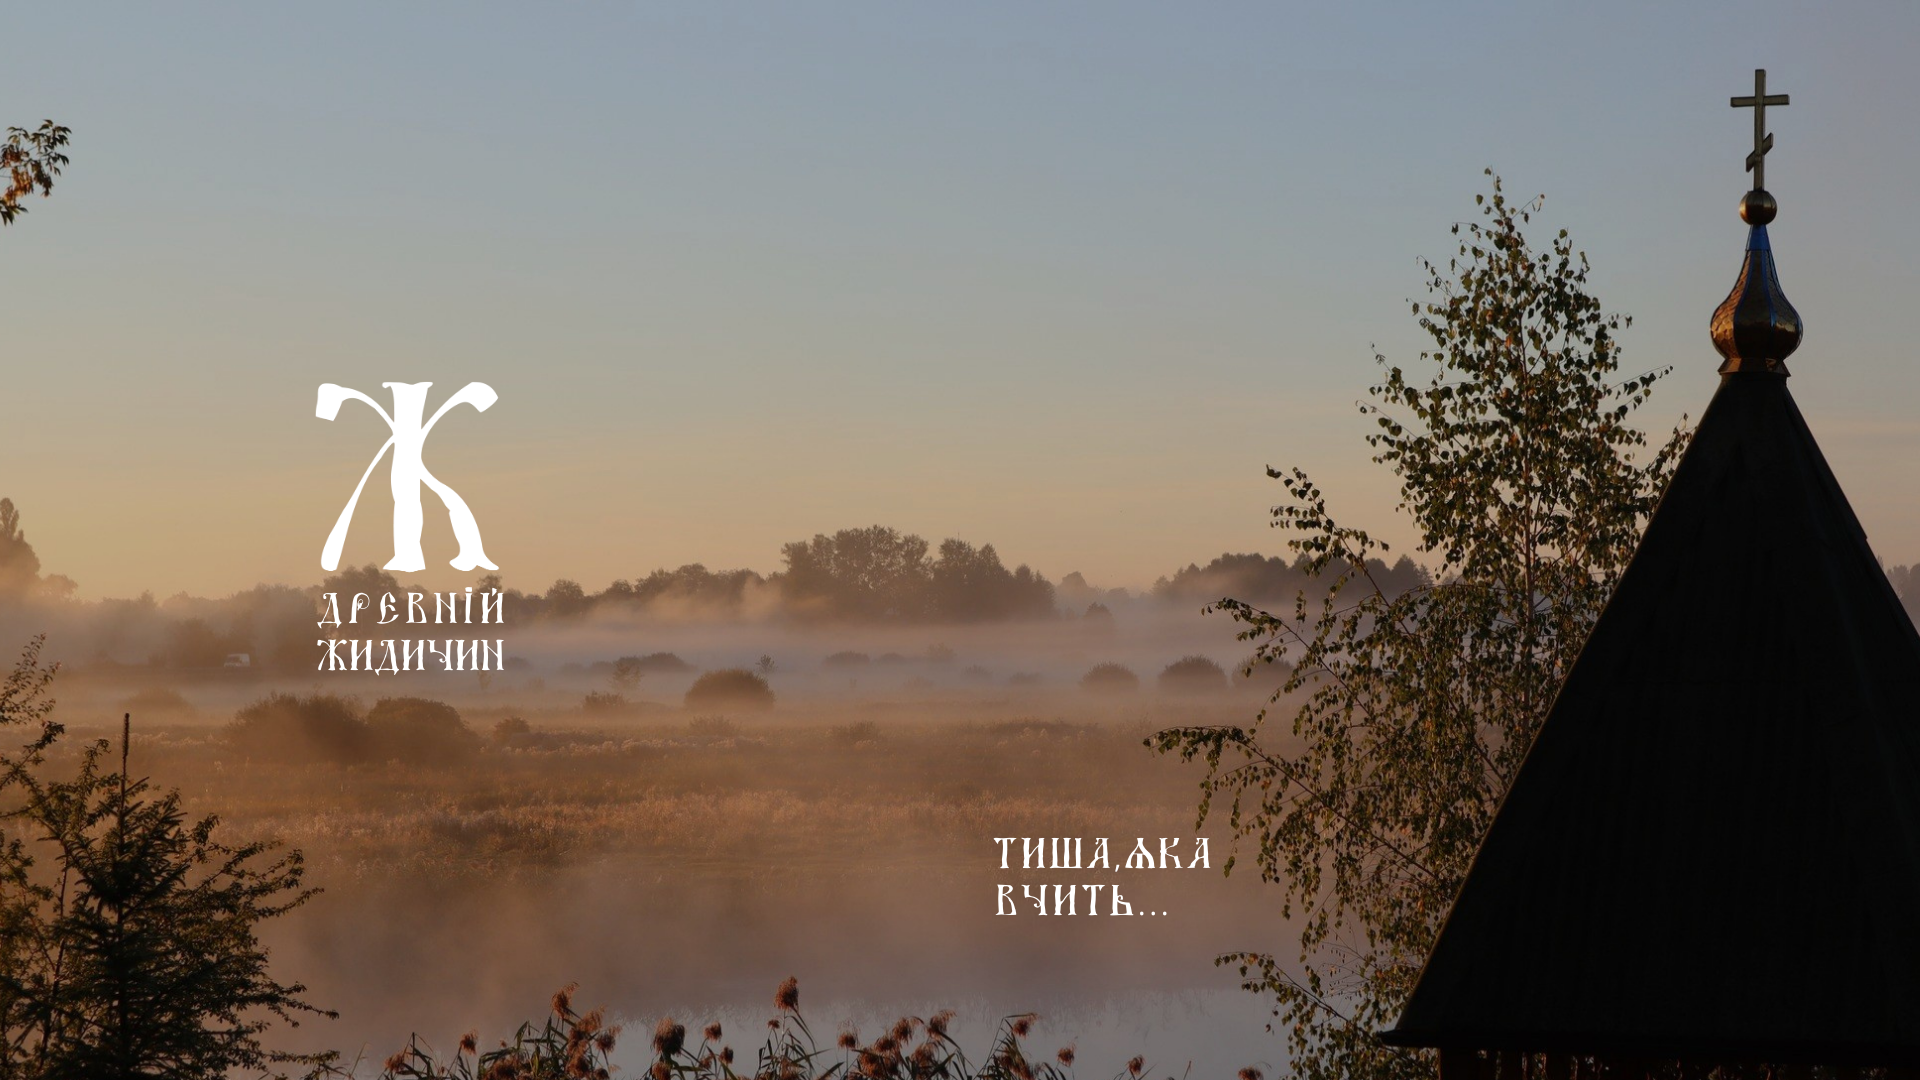
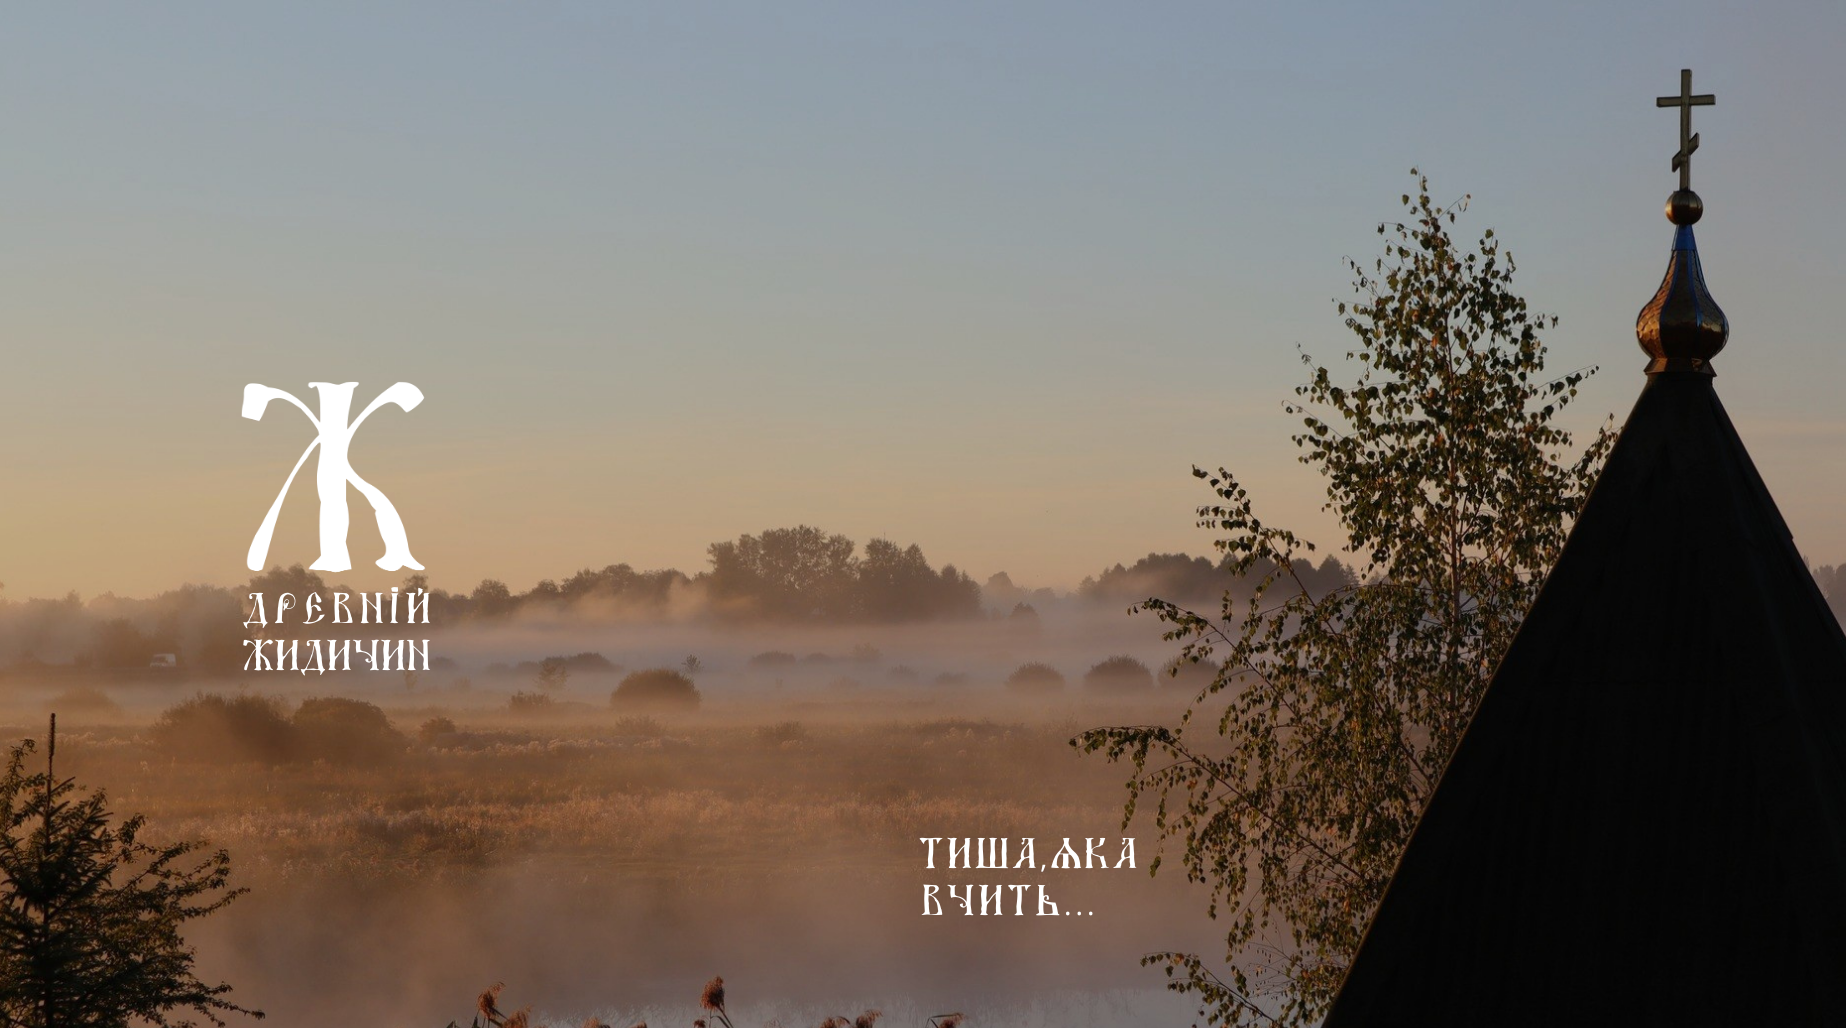
Add files via upload

diff --git a/assets/css/pages/home.css b/assets/css/pages/home.css
@@ -4,6 +4,17 @@ body{
 .carousel{
     height: 730px;
   }
+  picture {
+    display: block;
+    width: 100%;
+    height: 100%;
+  }
+  
+  picture img {
+    width: 100%;
+    height: auto;
+    object-fit: cover;
+  }
   swiper-container {
     width: 100%;
     height: 100%;
@@ -27,6 +38,12 @@ body{
   swiper-container::part(button-prev),
   swiper-container::part(button-next) {
       color: #f4f4f4;
+  }
+  swiper-container::part(pagination) {
+    --swiper-pagination-color: #f4f4f4;
+    --swiper-pagination-bullet-inactive-color: #f4f4f4;
+    --swiper-pagination-bullet-inactive-opacity: 0.5;
+    --swiper-pagination-bullet-active-color: #f4f4f4;
   }
   .aboutus{
     height: 700px;
@@ -62,6 +79,8 @@ body{
   }
   .headings{
     width: auto;
+    --translateX: -10%;
+    transform: translate(var(--translateX));
   }
   .headingandtext{
     display: flex;
@@ -123,5 +142,97 @@ body{
   }
   .pictograms{
     height: 500px;
+  }
+  @media (max-width:1200px){
+    h2.first{
+      left: 0;
+    }
+    h2.second{
+      left: 0;
+    }
+    .missionandwave h1{
+      left: 200px;
+    }
+    .missionandwave::before{
+      transform: scale(0.4);
+    }
+    .headings{
+      position: relative;
+      left: 50px;
+      
+    }
+  }
+  @media (max-width:992px) {
+    .aboutus{
+      flex-direction: column;
+      padding: 40px;
+      height: 100%;
+    }
+    .headingandtext{
+      align-items: start;
+      width: 100%;
+    }
+    .headings{
+      left: 30px;
+    }
+    .headings h2{
+      font-size: 40px;
+    }
+    .description{
+      width: 100%;
+      font-size: 22px;
+    }
+    .missionandwave{
+      display: flex;
+      width: 100%;
+      height: 90px
+    }
+    .missionandwave img{
+      display: none;
+    }
+    .missionandwave h1{
+      position:relative;
+      left:auto;
+      font-size: 50px;
+    }
+    .missionandwave::before{
+      top: -20px;
+    }
+    .button{
+      justify-content: space-around;
+    }
+    .buttonMore{
+      font-size: 28px;
+    }
+    
+  }
+  @media (max-width:768px) {
+    .missionandwave::before{
+      top: -20px;
+      left:70%
+    }
+  }
+  @media (max-width:576px) {
+    swiper-container::part(button-prev),
+  swiper-container::part(button-next) {
+      display: none !important;
+    }
+    .missionandwave::before{
+      left:50%
+    }
+    .aboutus{
+      padding: 20px;
+      padding-right: 5px;
+    }
+    .missionandwave h1{
+      font-size: 45px;
+    }
+    .headings h2{
+      font-size:28px
+    }
+    .description{
+      width: 100%;
+      font-size: 18px;
+    }
   }
   

diff --git a/index.html b/index.html
@@ -24,15 +24,27 @@
             centered-slides="true" autoplay-delay="4500" autoplay-disable-on-interaction="false" speed="2000" effect="fade" loop="true">
             
             <swiper-slide>
-              <img src="/assets/images/home/photo(1).png" alt="">
+              <picture>
+                <source media="(max-width: 576px)" srcset="/assets/images/home/photo-mobile(1).png">
+                <source media="(max-width: 992px)" srcset="/assets/images/home/photo-tablet(1).png">
+                <img src="/assets/images/home/photo(1).png" alt="Фото">
+              </picture>
             </swiper-slide>
             
             <swiper-slide>
-              <img src="/assets/images/home/photo(2).png" alt="">
+              <picture>
+                <source media="(max-width: 576px)" srcset="/assets/images/home/photo-mobile(2).png">
+                <source media="(max-width: 992px)" srcset="/assets/images/home/photo-tablet(2).png">
+                <img src="/assets/images/home/photo(2).png" alt="">
+              </picture>
             </swiper-slide>
             
             <swiper-slide>
-              <img src="/assets/images/home/photo(3).png" alt="">
+              <picture>
+                <source media="(max-width: 576px)" srcset="/assets/images/home/photo-mobile(3).png">
+                <source media="(max-width: 992px)" srcset="/assets/images/home/photo-tablet(3).png">
+                <img src="/assets/images/home/photo(3).png" alt="">
+              </picture>
             </swiper-slide>
           </swiper-container>
           

diff --git a/assets/css/common/header.css b/assets/css/common/header.css
@@ -7,8 +7,8 @@
     transform: translateY(0);
     color:#f4f4f4;
     transition: transform 0.4s ease, background 0.3s ease;
+    
   }
-  
   #header-container.hidden {
     transform: translateY(-110%);
   }
@@ -24,7 +24,7 @@
     z-index: 1000;
     width: 100%;
     padding: 10px 20px 10px 20px;
-    
+    height: 90px;
   }
   #header-container.transparent {
     background: rgba(255, 255, 255, 0); 
@@ -121,7 +121,7 @@
       left: 0;
       width: 0;
       height: 2px;
-      background-color: #68afe2;
+      background-color: #393e42;
       transition: width 0.5s ease;
     }
     .navbar-nav .nav-item:hover::after{
